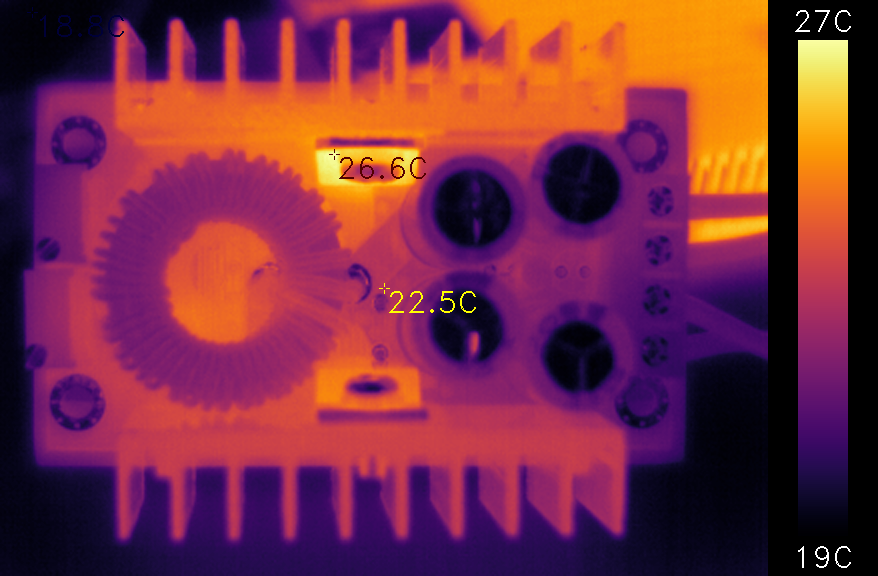
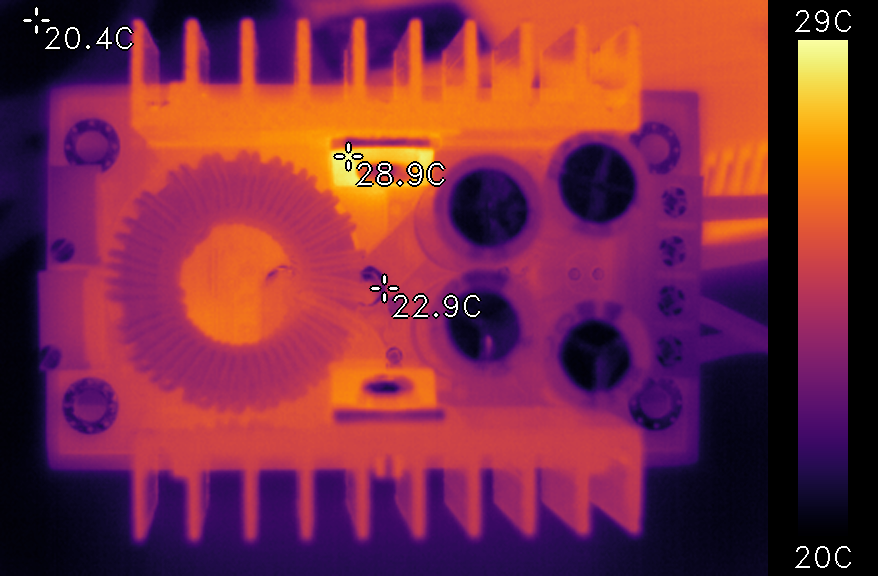
add text outline to improve temp marker visibility

diff --git a/opencv.py b/opencv.py
@@ -26,8 +26,10 @@ class FrameProcessor:
 
         if scale >= 2:
             self.font = cv2.FONT_HERSHEY_DUPLEX
+            self.font_scale = 2
         else:
             self.font = cv2.FONT_HERSHEY_PLAIN
+            self.font_scale = 1
 
 
     def getWidth(self, withLegend):
@@ -106,28 +108,33 @@ class FrameProcessor:
         return (scale * x, scale * y)
 
 
-    def _drawMarker(self, img, point, T, font, color = (0,0,0)):
-        d1, d2 = 2, 5
+    def _drawMarker(self, img, point, T):
+        draw_col, outline_col = (255,255,255), (0,0,0)
+        d1, d2 = 3 * self.font_scale, 6 * self.font_scale
         dsize = 1
         (x, y) = point
-        t = '%.1fC' % T
-        cv2.line(img,(x+d1, y),(x+d2,y),color, dsize)
-        cv2.line(img,(x-d1, y),(x-d2,y),color, dsize)
-        cv2.line(img,(x, y+d1),(x,y+d2),color, dsize)
-        cv2.line(img,(x, y-d1),(x,y-d2),color, dsize)
+        for (color, width) in [(outline_col, 3 * dsize * self.font_scale), (draw_col, dsize * self.font_scale)]:
+            cv2.line(img, (x+d1, y), (x+d2,y), color, width)
+            cv2.line(img, (x-d1, y), (x-d2,y), color, width)
+            cv2.line(img, (x, y+d1), (x,y+d2), color, width)
+            cv2.line(img, (x, y-d1), (x,y-d2), color, width)
 
-        text_size = cv2.getTextSize(t, font, 1, dsize)[0]
+        t = '%.1fC' % T
+        text_size = cv2.getTextSize(t, self.font, 1, dsize)[0]
         tx, ty = x+d1, y+d1+text_size[1]
         if tx + text_size[0] > img.shape[1]: tx = x-d1-text_size[0]
         if ty                > img.shape[0]: ty = y-d1
 
-        cv2.putText(img, t, (tx,ty), font, 1, color, dsize, cv2.LINE_8)
+        for offset in (-self.font_scale, self.font_scale):
+            cv2.putText(img, t, (tx + offset, ty), self.font, 1, outline_col, dsize, cv2.LINE_8)
+            cv2.putText(img, t, (tx, ty + offset), self.font, 1, outline_col, dsize, cv2.LINE_8)
+        cv2.putText(img, t, (tx,ty), self.font, 1, draw_col, dsize, cv2.LINE_8)
 
 
     def addMarkers(self, frame, info):
-        self._drawMarker(frame, self._scalePoint(info['Tmin_point'], self.scale), info['Tmin_C'], self.font, (55,0,0))
-        self._drawMarker(frame, self._scalePoint(info['Tmax_point'], self.scale), info['Tmax_C'], self.font, (0,0,85))
-        self._drawMarker(frame, self._scalePoint(info['Tcenter_point'], self.scale), info['Tcenter_C'], self.font, (0,255,255))
+        self._drawMarker(frame, self._scalePoint(info['Tmin_point'], self.scale), info['Tmin_C'])
+        self._drawMarker(frame, self._scalePoint(info['Tmax_point'], self.scale), info['Tmax_C'])
+        self._drawMarker(frame, self._scalePoint(info['Tcenter_point'], self.scale), info['Tcenter_C'])
         return frame
 
 
